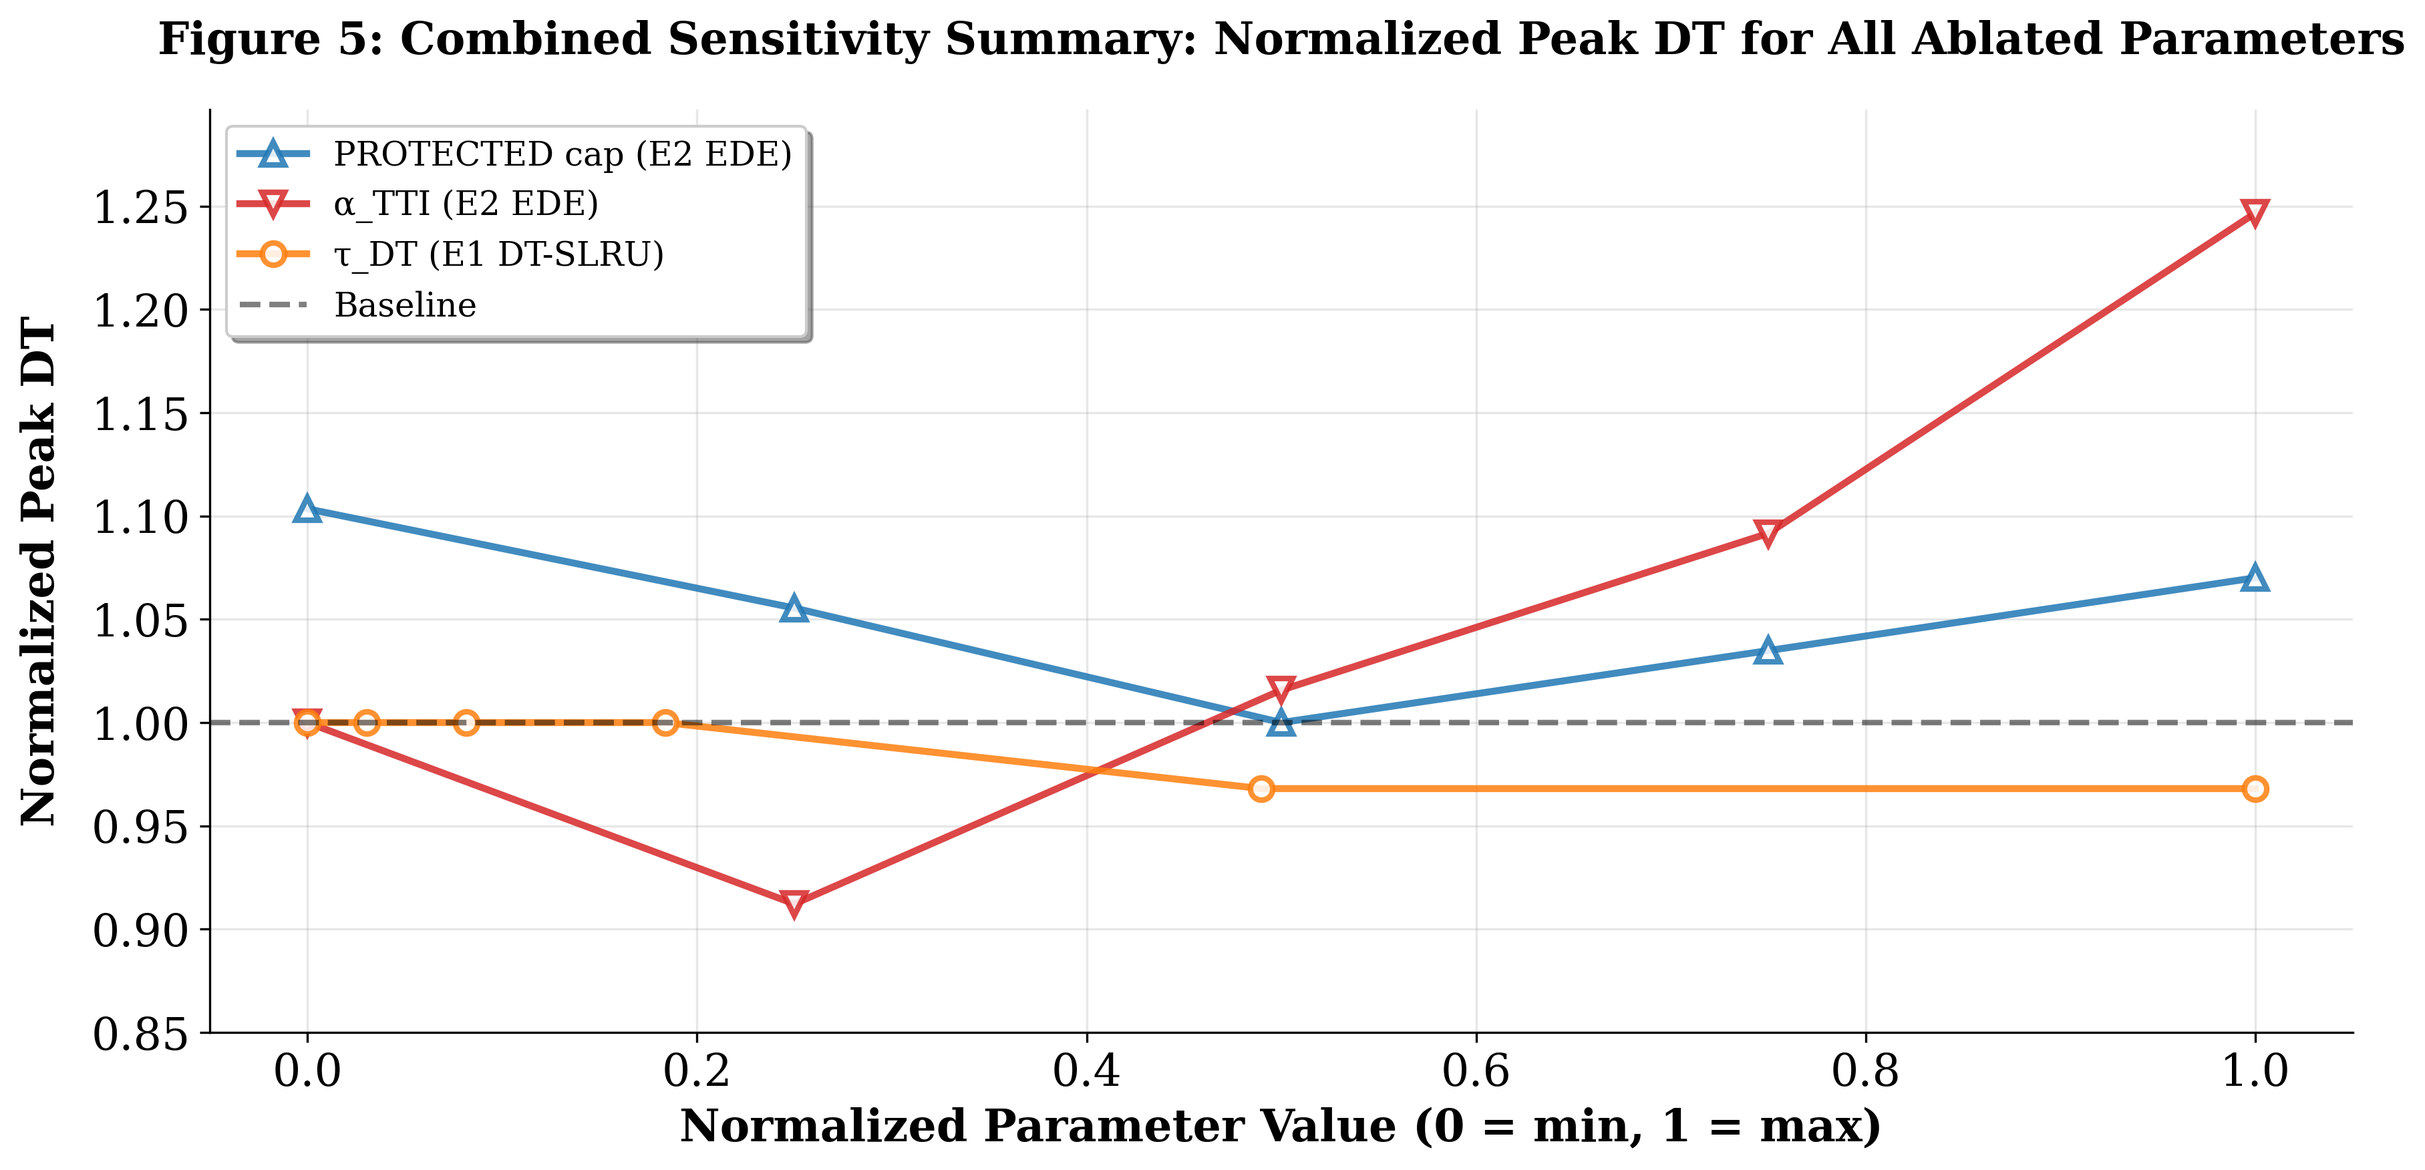
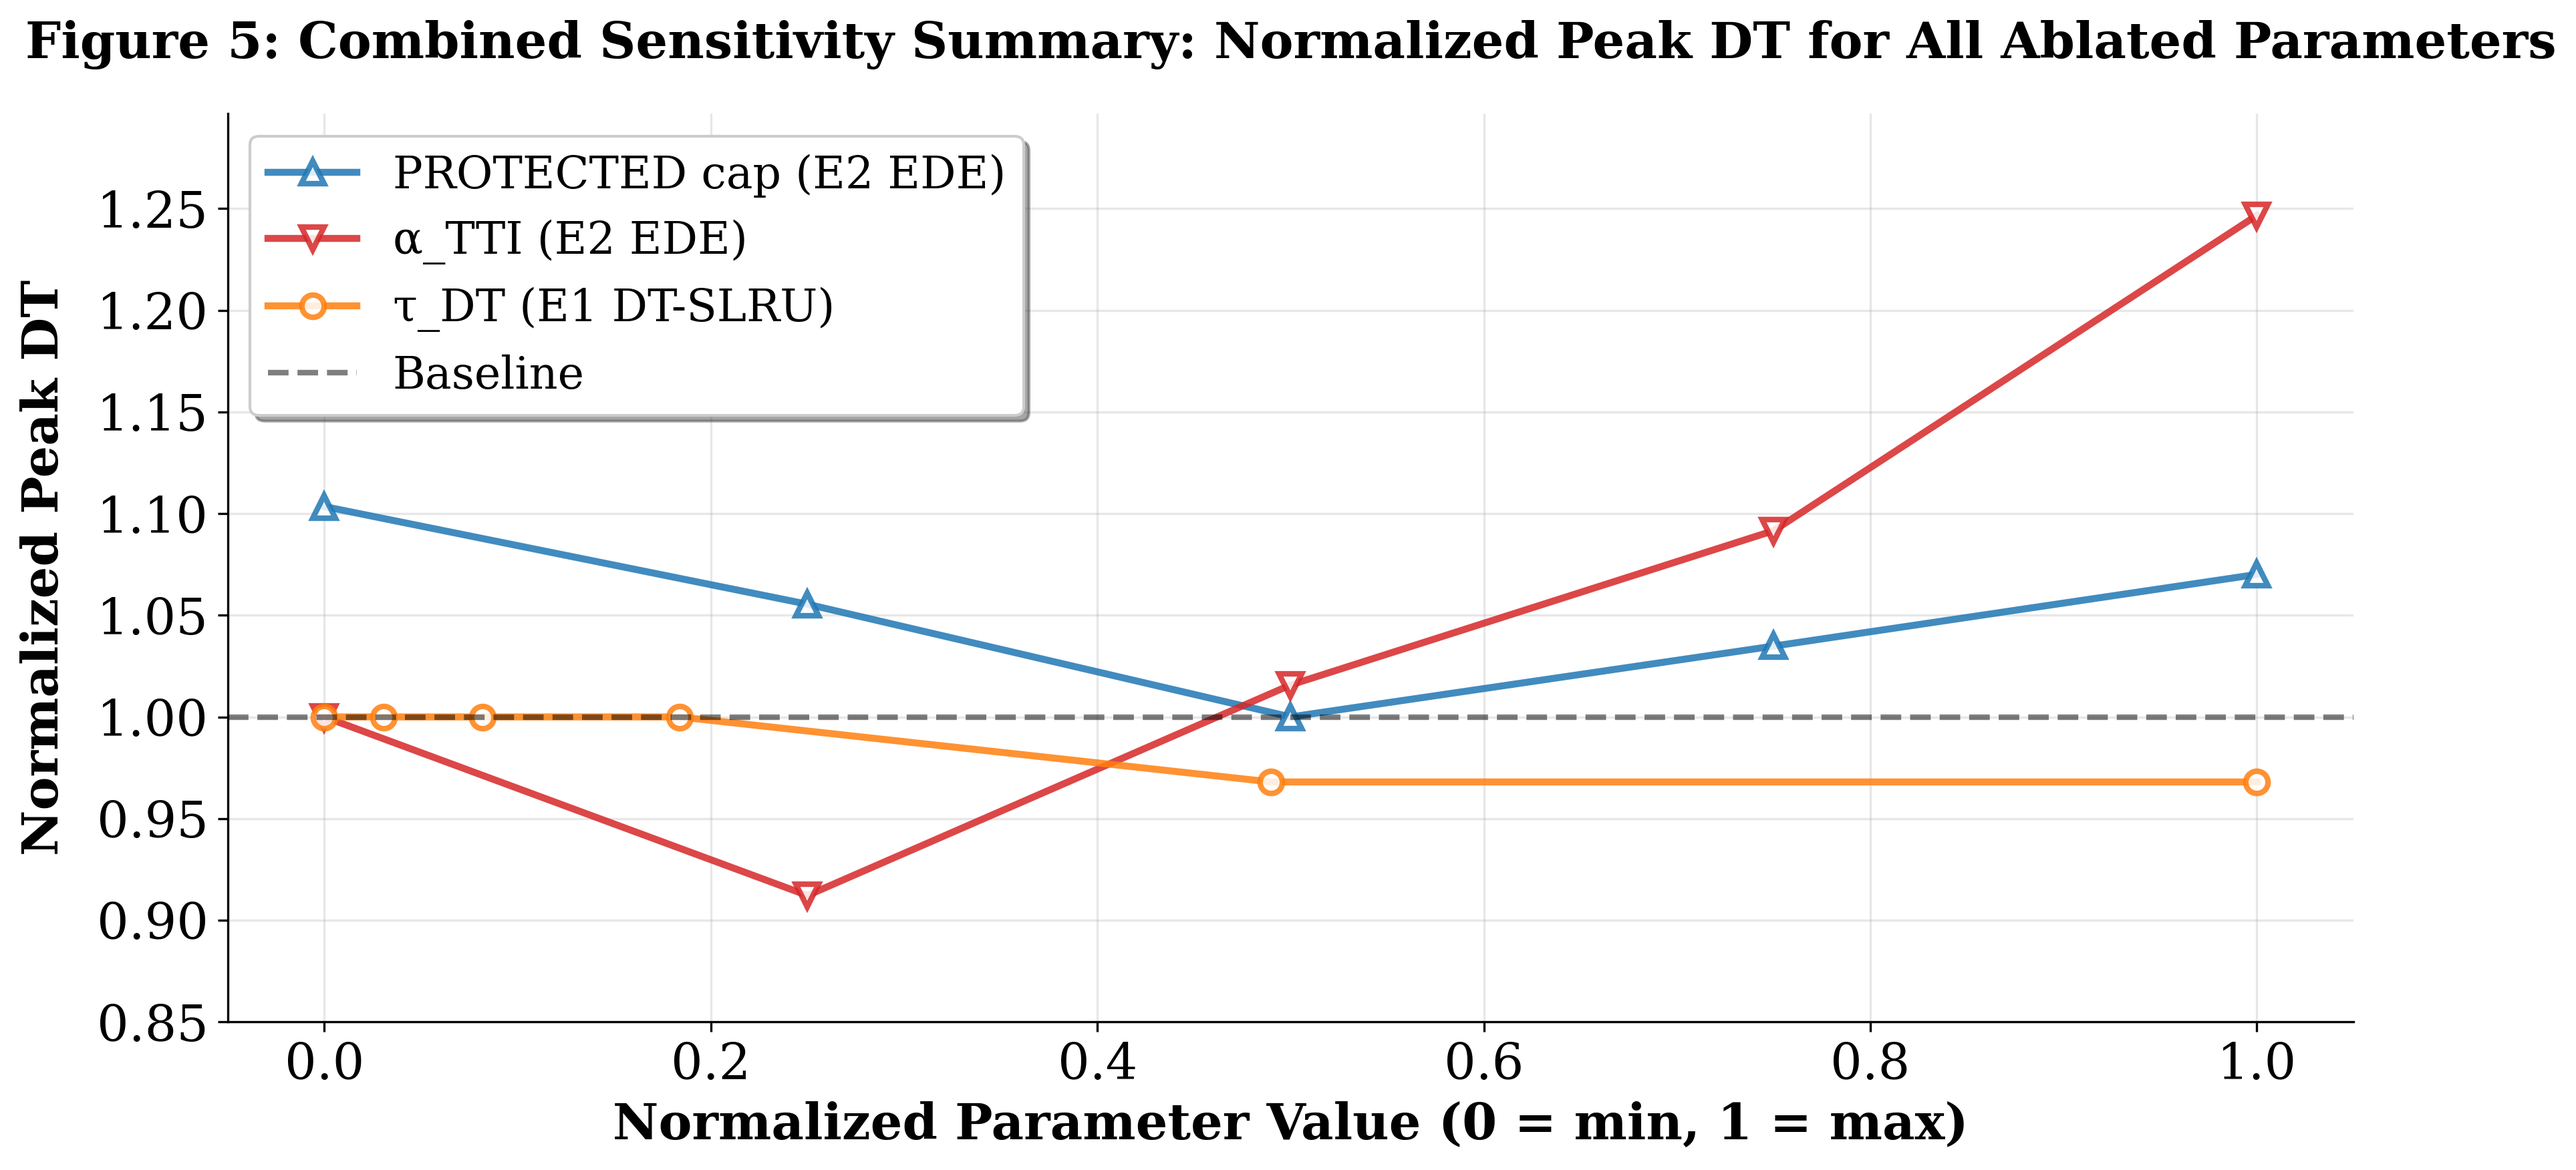
Increased Font Sizes of Figure 5

diff --git a/assignment5/scripts/figures/generate_figure_5_combined_summary.py b/assignment5/scripts/figures/generate_figure_5_combined_summary.py
@@ -146,8 +146,8 @@ def generate_figure_5_combined(normalized_dt, normalized_params):
     ax.axhline(y=1.0, color='black', linestyle='--', linewidth=2, alpha=0.5, label='Baseline')
     
     # Formatting
-    ax.set_xlabel('Normalized Parameter Value (0 = min, 1 = max)', fontweight='bold', fontsize=16)
-    ax.set_ylabel('Normalized Peak DT', fontweight='bold', fontsize=16, labelpad=10)
+    ax.set_xlabel('Normalized Parameter Value (0 = min, 1 = max)', fontweight='bold', fontsize=18)
+    ax.set_ylabel('Normalized Peak DT', fontweight='bold', fontsize=18, labelpad=10)
     
     # Set y-axis limits first
     all_normalized = []
@@ -160,17 +160,17 @@ def generate_figure_5_combined(normalized_dt, normalized_params):
     
     # Set title after limits to prevent overlap
     ax.set_title('Figure 5: Combined Sensitivity Summary: Normalized Peak DT for All Ablated Parameters',
-                 fontweight='bold', pad=20, fontsize=16)
+                 fontweight='bold', pad=20, fontsize=18)
     
     ax.grid(True, alpha=0.3)
     ax.spines['top'].set_visible(False)
     ax.spines['right'].set_visible(False)
     
-    ax.tick_params(axis='x', labelsize=16)  # Match Assignment 4
-    ax.tick_params(axis='y', labelsize=16)  # Match Assignment 4
+    ax.tick_params(axis='x', labelsize=18)  # Increased font size
+    ax.tick_params(axis='y', labelsize=18)  # Increased font size
     
-    # Legend - match Assignment 4 font size, position to avoid overlaps
-    ax.legend(loc='best', frameon=True, fancybox=True, shadow=True, fontsize=12)
+    # Legend - increased font size for better readability
+    ax.legend(loc='best', frameon=True, fancybox=True, shadow=True, fontsize=16)
     
     # Adjust layout to prevent label overlaps
     plt.tight_layout(rect=[0, 0, 1, 0.96])
